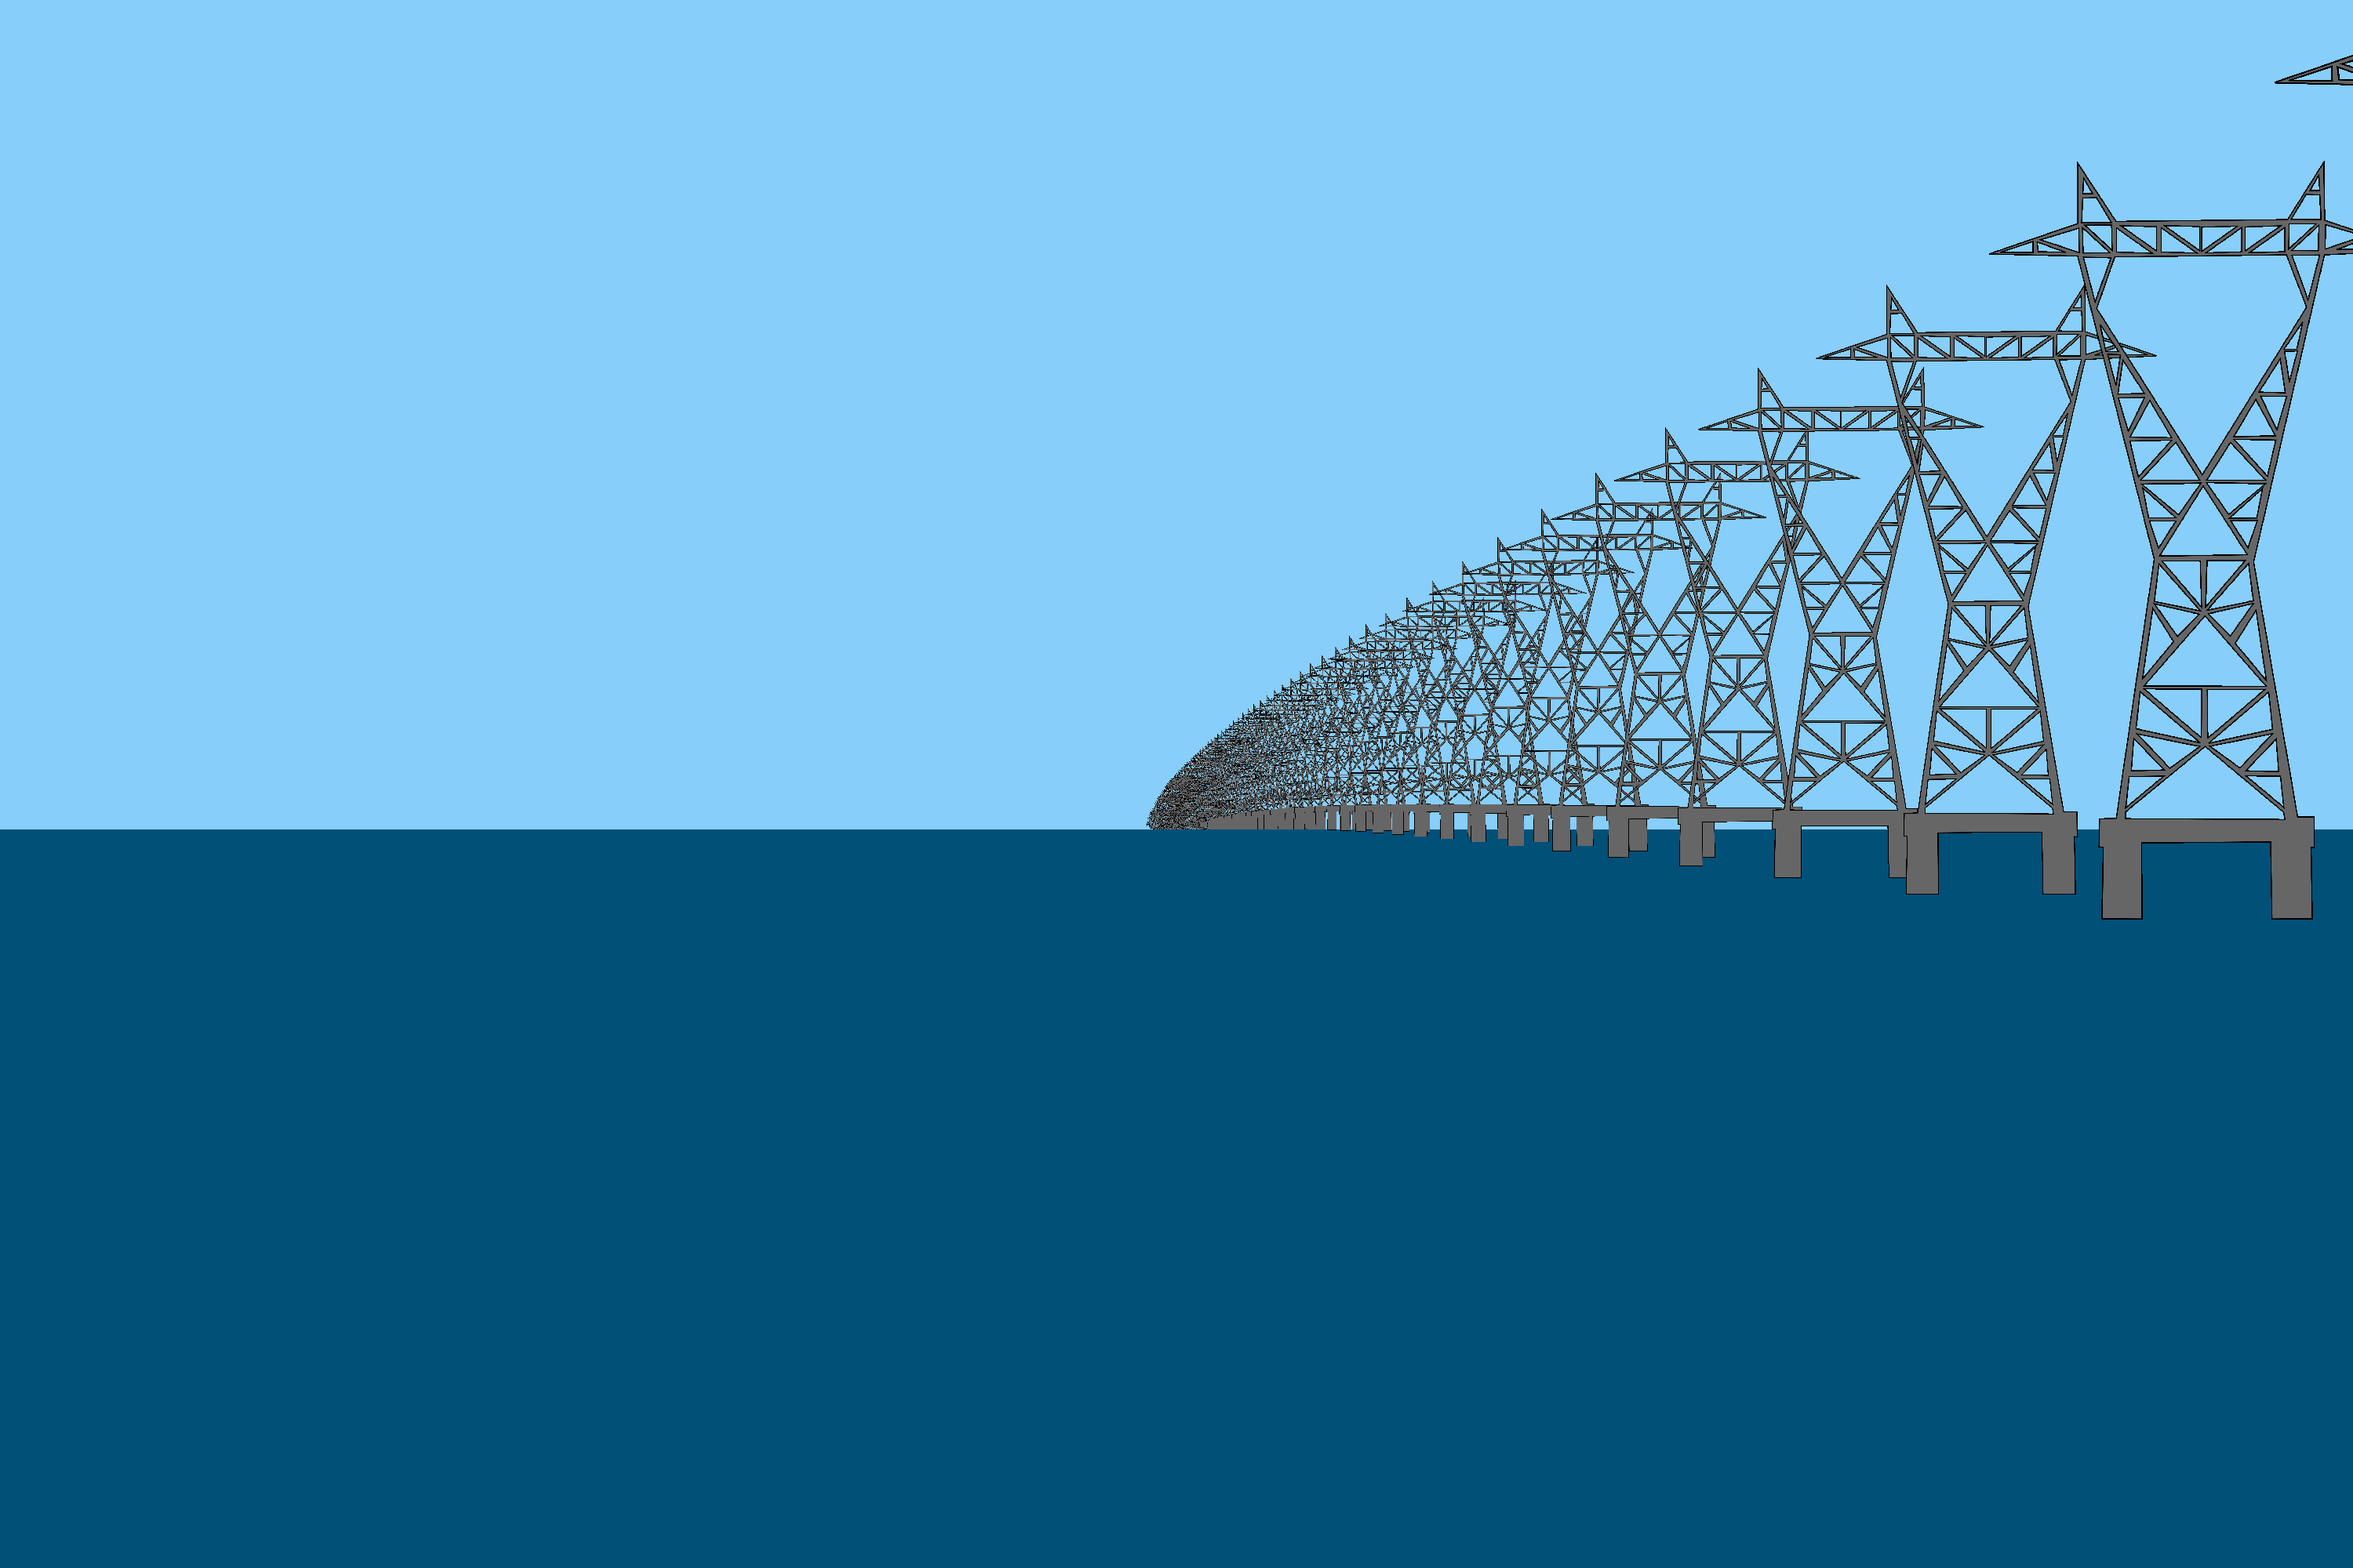
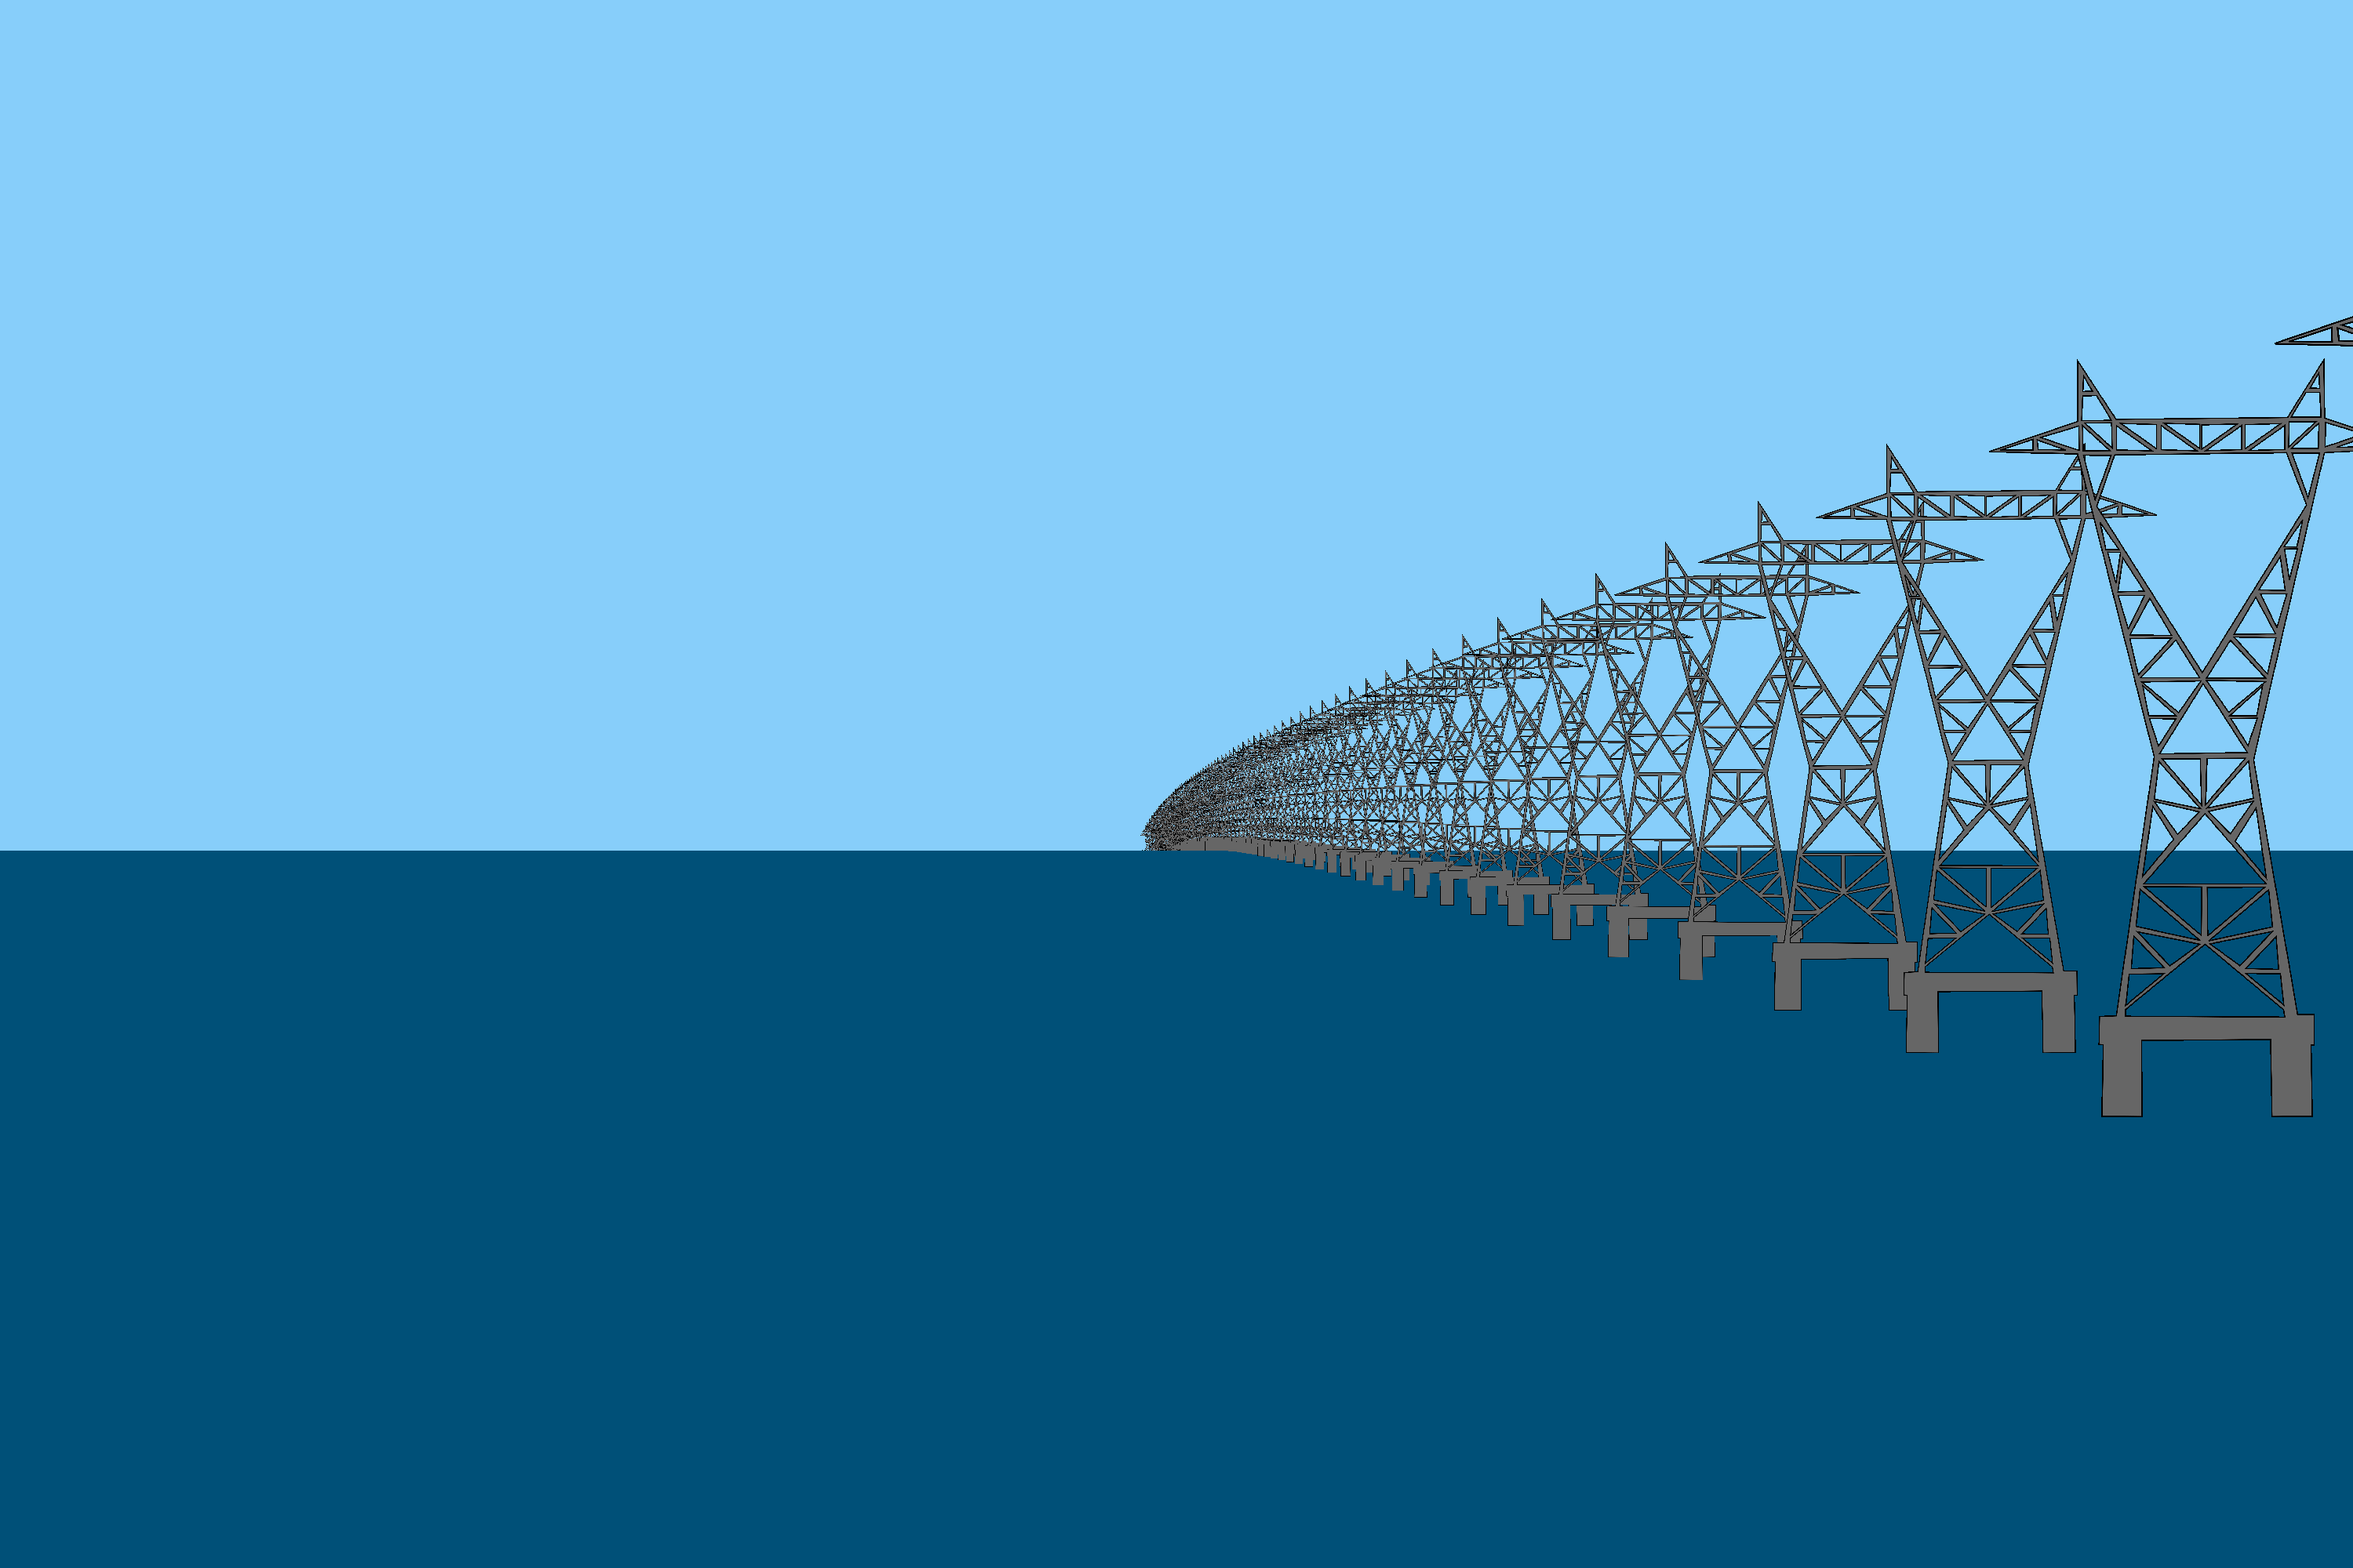
updating script and images for soundly

Changed region(s): [[0.0, 0.124, 1.0, 0.713], [0.961, 0.031, 1.0, 0.062]]

diff --git a/docs/examples/soundly_pylons.html b/docs/examples/soundly_pylons.html
@@ -146,12 +146,12 @@
 <span class="n">lat_f</span><span class="p">,</span> <span class="n">lon_f</span> <span class="o">=</span> <span class="n">lat_f</span><span class="o">/</span><span class="n">dists</span><span class="o">.</span><span class="n">sum</span><span class="p">(),</span> <span class="n">lon_f</span><span class="o">/</span><span class="n">dists</span><span class="o">.</span><span class="n">sum</span><span class="p">()</span>
 
 <span class="c1"># render image with wide field of view</span>
-<span class="n">renderer</span> <span class="o">=</span> <span class="n">Renderer_35mm</span><span class="p">(</span><span class="n">calc</span><span class="p">,</span><span class="mi">4</span><span class="p">,</span><span class="n">lat_i</span><span class="p">,</span><span class="n">lon_i</span><span class="p">,(</span><span class="n">lat_f</span><span class="p">,</span><span class="n">lon_f</span><span class="p">),</span><span class="mi">40000</span><span class="p">,</span>
+<span class="n">renderer</span> <span class="o">=</span> <span class="n">Renderer_35mm</span><span class="p">(</span><span class="n">calc</span><span class="p">,</span><span class="mi">10</span><span class="p">,</span><span class="n">lat_i</span><span class="p">,</span><span class="n">lon_i</span><span class="p">,(</span><span class="n">lat_f</span><span class="p">,</span><span class="n">lon_f</span><span class="p">),</span><span class="mi">40000</span><span class="p">,</span>
 	<span class="n">vert_obs_angle</span><span class="o">=</span><span class="mf">0.0</span><span class="p">,</span><span class="n">vert_res</span><span class="o">=</span><span class="mi">2000</span><span class="p">,</span><span class="n">focal_length</span><span class="o">=</span><span class="mi">600</span><span class="p">)</span>
 <span class="n">renderer</span><span class="o">.</span><span class="n">render_scene</span><span class="p">(</span><span class="n">s</span><span class="p">,</span><span class="s2">&quot;soundly_pylons.png&quot;</span><span class="p">)</span>
 
 <span class="c1"># render image with small field of view effectively zooming in</span>
-<span class="n">renderer</span> <span class="o">=</span> <span class="n">Renderer_35mm</span><span class="p">(</span><span class="n">calc</span><span class="p">,</span><span class="mi">4</span><span class="p">,</span><span class="n">lat_i</span><span class="p">,</span><span class="n">lon_i</span><span class="p">,(</span><span class="n">lat_f</span><span class="p">,</span><span class="n">lon_f</span><span class="p">),</span><span class="mi">40000</span><span class="p">,</span>
+<span class="n">renderer</span> <span class="o">=</span> <span class="n">Renderer_35mm</span><span class="p">(</span><span class="n">calc</span><span class="p">,</span><span class="mi">10</span><span class="p">,</span><span class="n">lat_i</span><span class="p">,</span><span class="n">lon_i</span><span class="p">,(</span><span class="n">lat_f</span><span class="p">,</span><span class="n">lon_f</span><span class="p">),</span><span class="mi">40000</span><span class="p">,</span>
 	<span class="n">vert_obs_angle</span><span class="o">=</span><span class="mf">0.0</span><span class="p">,</span><span class="n">vert_res</span><span class="o">=</span><span class="mi">2000</span><span class="p">,</span><span class="n">focal_length</span><span class="o">=</span><span class="mi">2000</span><span class="p">)</span>
 <span class="n">renderer</span><span class="o">.</span><span class="n">render_scene</span><span class="p">(</span><span class="n">s</span><span class="p">,</span><span class="s2">&quot;soundly_pylons_zoom.png&quot;</span><span class="p">)</span>
 </pre></div>
